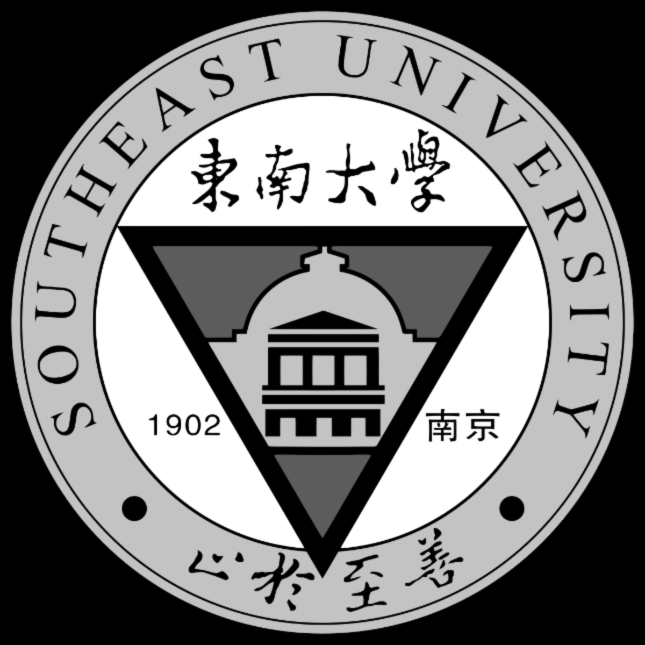
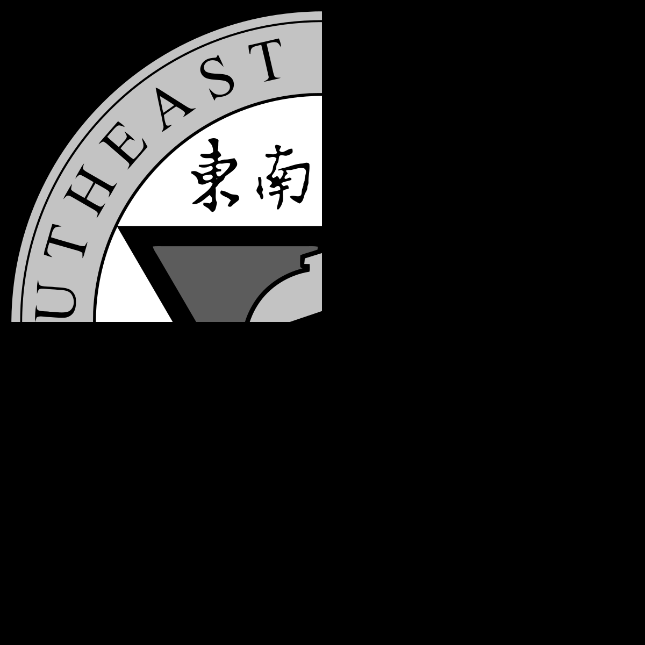
2

diff --git a/DIP/exp1/2/resize.cpp b/DIP/exp1/2/resize.cpp
@@ -3,7 +3,24 @@
 #include <iomanip>
 #include <filesystem>
 
+#include <cmath>
+
 namespace fs = std::filesystem;
+
+/*
+ * @function myGetMoveMatrix
+ * @brief  生成缩放变换的齐次 3x3 矩阵
+ * @param  scale_x x 方向缩放
+ * @param  scale_y y 方向缩放
+ * @return     3x3 齐次变换矩阵
+ */
+cv::Mat myGetMoveMatrix(double scale_x, double scale_y)
+{
+    cv::Mat move_mat = (cv::Mat_<double>(3, 3) << scale_x, 0, 0,
+                        0, scale_y, 0,
+                        0, 0, 1);
+    return move_mat;
+}
 
 /*
  * @function myResize
@@ -16,18 +33,28 @@ namespace fs = std::filesystem;
  */
 cv::Mat myResize(const cv::Mat &src, double scale_x, double scale_y)
 {
-    int dst_w = static_cast<int>(src.cols * scale_x);
-    int dst_h = static_cast<int>(src.rows * scale_y);
+    cv::Mat scale_mat = myGetMoveMatrix(scale_x, scale_y);
+    cv::Mat inv_scale = scale_mat.inv();
 
-    cv::Mat dst(dst_h, dst_w, src.type());
+    // 将输出 dst 的尺寸设置为原始图像尺寸，超出的部分隐式丢弃
+    int dst_w = src.cols;
+    int dst_h = src.rows;
+
+    cv::Mat dst(dst_h, dst_w, src.type(), cv::Scalar(0));
 
     for (int y = 0; y < dst_h; ++y)
     {
         for (int x = 0; x < dst_w; ++x)
         {
-            // 基于像素中心进行坐标映射
-            double srcX = (x + 0.5) / scale_x - 0.5;
-            double srcY = (y + 0.5) / scale_y - 0.5;
+            double srcX = inv_scale.at<double>(0, 0) * x +
+                          inv_scale.at<double>(0, 1) * y +
+                          inv_scale.at<double>(0, 2);
+            double srcY = inv_scale.at<double>(1, 0) * x +
+                          inv_scale.at<double>(1, 1) * y +
+                          inv_scale.at<double>(1, 2);
+
+            if (srcX < 0 || srcX >= src.cols - 1 || srcY < 0 || srcY >= src.rows - 1)
+                continue;
 
             int x1 = std::clamp(static_cast<int>(std::floor(srcX)), 0, src.cols - 1);
             int y1 = std::clamp(static_cast<int>(std::floor(srcY)), 0, src.rows - 1);
@@ -73,25 +100,48 @@ int main(int argc, char **argv)
     }
 
     // 2. 使用 OpenCV 自带函数缩放
+    int dst_w = static_cast<int>(src.cols * scale_x);
+    int dst_h = static_cast<int>(src.rows * scale_y);
     cv::Mat dst_cv;
-    cv::resize(src, dst_cv, cv::Size(), scale_x, scale_y, cv::INTER_LINEAR);
+    // 使用仿射缩放矩阵和 warpAffine（目标尺寸设为 src.size()，超出部分丢弃）
+    cv::Mat scale_mat = (cv::Mat_<double>(2, 3) << scale_x, 0, 0, 0, scale_y, 0);
+    cv::warpAffine(src, dst_cv, scale_mat, src.size(), cv::INTER_LINEAR, cv::BORDER_CONSTANT, cv::Scalar(0));
 
     // 3. 使用自定义函数缩放
     cv::Mat dst_custom = myResize(src, scale_x, scale_y);
 
     // 4. 保存输出结果
-    cv::imwrite("./easy_resize.png", dst_cv);
-    cv::imwrite("./custom_resize.png", dst_custom);
+    // 把放缩后超出原始图片的部分丢弃（裁剪到原始尺寸，放在左上角）
+    cv::Mat dst_cv_cropped(src.rows, src.cols, dst_cv.type(), cv::Scalar(0));
+    int copy_w = std::min(dst_w, src.cols);
+    int copy_h = std::min(dst_h, src.rows);
+    if (copy_w > 0 && copy_h > 0)
+    {
+        dst_cv(cv::Rect(0, 0, copy_w, copy_h)).copyTo(dst_cv_cropped(cv::Rect(0, 0, copy_w, copy_h)));
+    }
+
+    cv::Mat dst_custom_cropped(src.rows, src.cols, dst_custom.type(), cv::Scalar(0));
+    if (copy_w > 0 && copy_h > 0)
+    {
+        dst_custom(cv::Rect(0, 0, copy_w, copy_h)).copyTo(dst_custom_cropped(cv::Rect(0, 0, copy_w, copy_h)));
+    }
+
+    cv::imwrite("./easy_resize.png", dst_cv_cropped);
+    cv::imwrite("./custom_resize.png", dst_custom_cropped);
 
     // 5. 对变换后的图像进行逆变换并保存
-    // 5.1 使用 OpenCV 的函数进行逆变换
-    cv::Mat dst_inv_cv;
-    cv::resize(dst_cv, dst_inv_cv, src.size(), 0, 0, cv::INTER_LINEAR);
+    // 5.1 OpenCV 逆变换：使用 invertAffineTransform 得到逆仿射矩阵
+    cv::Mat inv_affine;
+    cv::invertAffineTransform(scale_mat, inv_affine);
+    cv::Mat easy_inv;
+    // 使用裁剪后的缩放图像进行逆变换
+    cv::warpAffine(dst_cv_cropped, easy_inv, inv_affine, src.size(), cv::INTER_LINEAR, cv::BORDER_CONSTANT, cv::Scalar(0));
     std::string dst_path = "./easy_resize_inv.png";
-    cv::imwrite(dst_path, dst_inv_cv);
-    // 5.2 使用自定义函数进行逆变换
+    cv::imwrite(dst_path, easy_inv);
+
+    // 5.2 使用自定义函数进行逆变换（缩放的逆为 1/scale）
     cv::Mat dst_inv_custom;
-    dst_inv_custom = myResize(dst_custom, 1.0 / scale_x, 1.0 / scale_y);
+    dst_inv_custom = myResize(dst_custom_cropped, 1.0 / scale_x, 1.0 / scale_y);
     dst_path = "./custom_resize_inv.png";
     cv::imwrite(dst_path, dst_inv_custom);
     return 0;

diff --git a/DIP/exp1/2/move.cpp b/DIP/exp1/2/move.cpp
@@ -3,23 +3,76 @@
 #include <iomanip>
 #include <filesystem>
 
+#include <cmath>
+
 namespace fs = std::filesystem;
 
-cv::Mat myMove(const cv::Mat &src, int move_x, int move_y)
+/*
+ * @function myGetMoveMatrix
+ * @brief  生成平移变换的齐次 3x3 矩阵
+ * @param  tx x 方向平移
+ * @param  ty y 方向平移
+ * @return     3x3 齐次变换矩阵
+ */
+cv::Mat myGetMoveMatrix(double tx, double ty)
 {
-    cv::Mat dst = cv::Mat::zeros(src.rows, src.cols, src.type());
-    for (int y = 0; y < src.rows; ++y)
+    cv::Mat move_mat = (cv::Mat_<double>(3, 3) << 1, 0, tx,
+                        0, 1, ty,
+                        0, 0, 1);
+    return move_mat;
+}
+
+/*
+ * @function myMove
+ * @brief  使用逆映射和双线性插值执行平移变换（与 shear.cpp 风格一致）
+ * @param  src 输入图像
+ * @param  tx  x 方向平移（可以为负）
+ * @param  ty  y 方向平移（可以为负）
+ * @return     变换后的图像
+ */
+cv::Mat myMove(const cv::Mat &src, double tx, double ty)
+{
+    cv::Mat move_mat = myGetMoveMatrix(tx, ty);
+    cv::Mat inv_move = move_mat.inv();
+
+    cv::Mat dst(src.rows, src.cols, src.type(), cv::Scalar(0));
+
+    for (int y = 0; y < dst.rows; ++y)
     {
-        for (int x = 0; x < src.cols; ++x)
+        for (int x = 0; x < dst.cols; ++x)
         {
-            int new_x = x + move_x;
-            int new_y = y + move_y;
-            if (new_x >= 0 && new_x < dst.cols && new_y >= 0 && new_y < dst.rows)
-            {
-                dst.at<uchar>(new_y, new_x) = src.at<uchar>(y, x);
-            }
+            double srcX = inv_move.at<double>(0, 0) * x +
+                          inv_move.at<double>(0, 1) * y +
+                          inv_move.at<double>(0, 2);
+            double srcY = inv_move.at<double>(1, 0) * x +
+                          inv_move.at<double>(1, 1) * y +
+                          inv_move.at<double>(1, 2);
+
+            if (srcX < 0 || srcX >= src.cols - 1 || srcY < 0 || srcY >= src.rows - 1)
+                continue;
+
+            int x1 = std::clamp(static_cast<int>(std::floor(srcX)), 0, src.cols - 1);
+            int y1 = std::clamp(static_cast<int>(std::floor(srcY)), 0, src.rows - 1);
+            int x2 = std::clamp(x1 + 1, 0, src.cols - 1);
+            int y2 = std::clamp(y1 + 1, 0, src.rows - 1);
+
+            double dx = srcX - x1;
+            double dy = srcY - y1;
+
+            double f11 = src.at<uchar>(y1, x1);
+            double f12 = src.at<uchar>(y1, x2);
+            double f21 = src.at<uchar>(y2, x1);
+            double f22 = src.at<uchar>(y2, x2);
+
+            double value = f11 * (1 - dx) * (1 - dy) +
+                           f12 * dx * (1 - dy) +
+                           f21 * (1 - dx) * dy +
+                           f22 * dx * dy;
+
+            dst.at<uchar>(y, x) = static_cast<uchar>(std::round(value));
         }
     }
+
     return dst;
 }
 

diff --git a/DIP/exp1/2/shear.cpp b/DIP/exp1/2/shear.cpp
@@ -50,8 +50,8 @@ cv::Mat myShear(const cv::Mat &src, double shx, double shy)
             if (srcX < 0 || srcX >= src.cols - 1 || srcY < 0 || srcY >= src.rows - 1)
                 continue;
 
-            int x1 = static_cast<int>(std::floor(srcX));
-            int y1 = static_cast<int>(std::floor(srcY));
+            int x1 = std::clamp(static_cast<int>(std::floor(srcX)), 0, src.cols - 1);
+            int y1 = std::clamp(static_cast<int>(std::floor(srcY)), 0, src.rows - 1);
             int x2 = std::clamp(x1 + 1, 0, src.cols - 1);
             int y2 = std::clamp(y1 + 1, 0, src.rows - 1);
 

diff --git a/DIP/exp1/1/custom.cpp b/DIP/exp1/1/custom.cpp
@@ -93,6 +93,11 @@ int main()
               << std::setw(10) << "File Size (KB)"
               << "\n------------------------------------------------------------\n";
 
+    std::cout << std::left << std::setw(20) << "Original"
+              << std::setw(10) << src.cols
+              << std::setw(10) << src.rows
+              << std::setw(10) << std::fixed << std::setprecision(2) << get_file_size_kb("../SEU_gray.png") << "\n";
+
     std::cout << std::left << std::setw(20) << "Nearest Neighbor"
               << std::setw(10) << nn.cols
               << std::setw(10) << nn.rows
